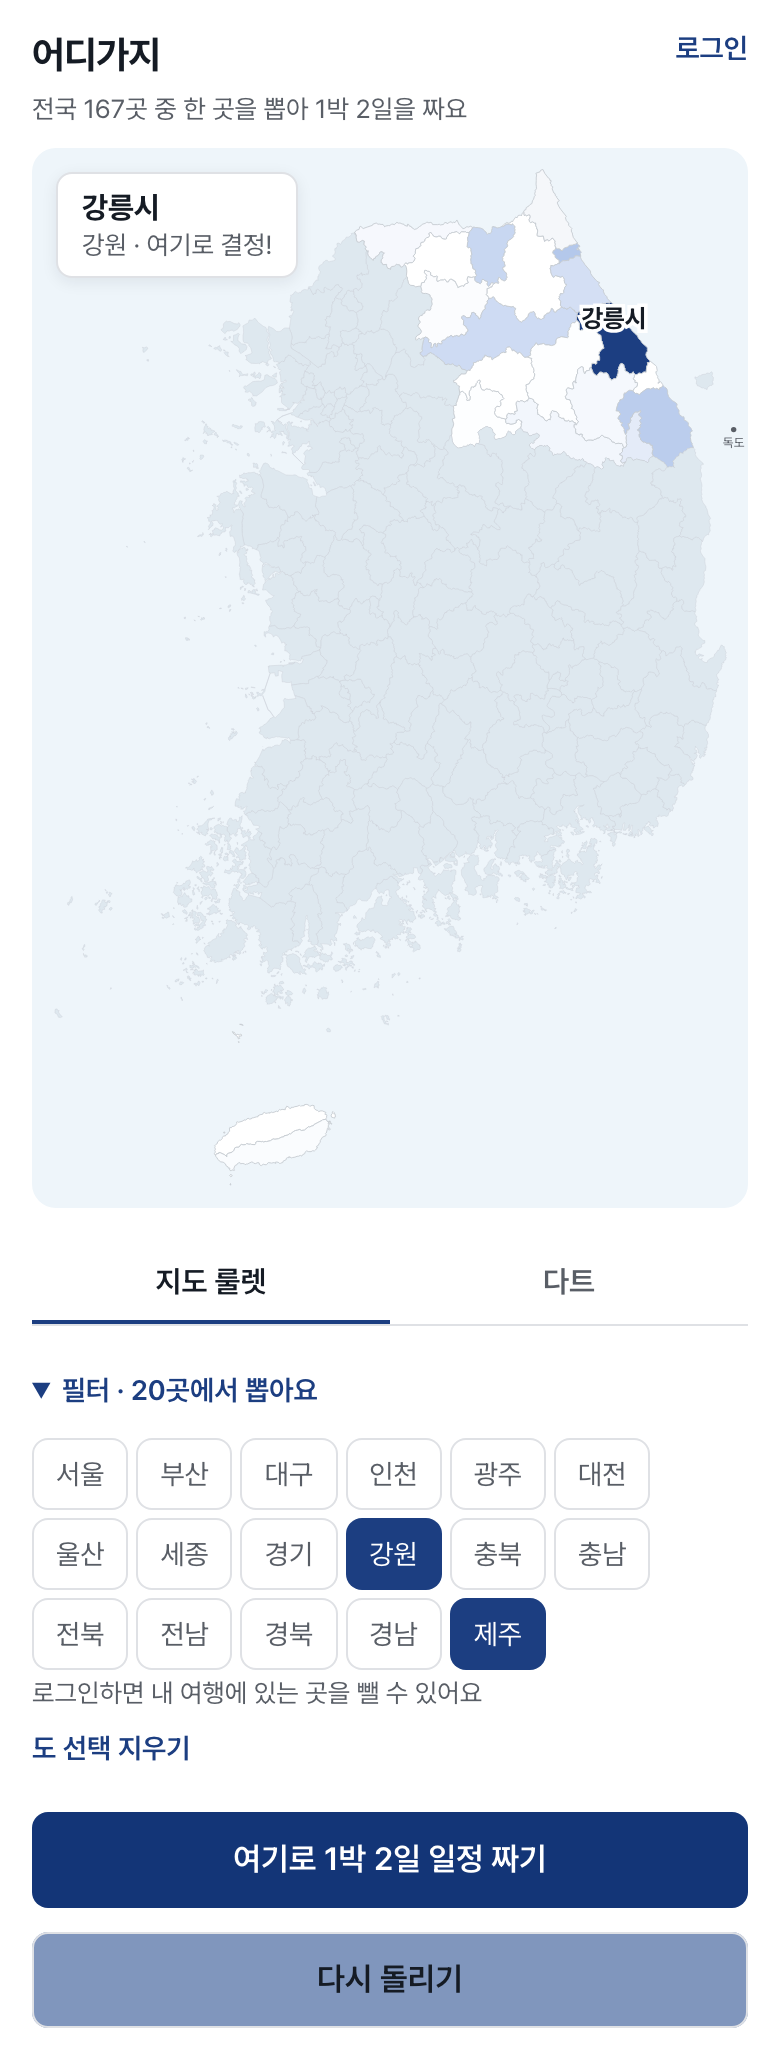
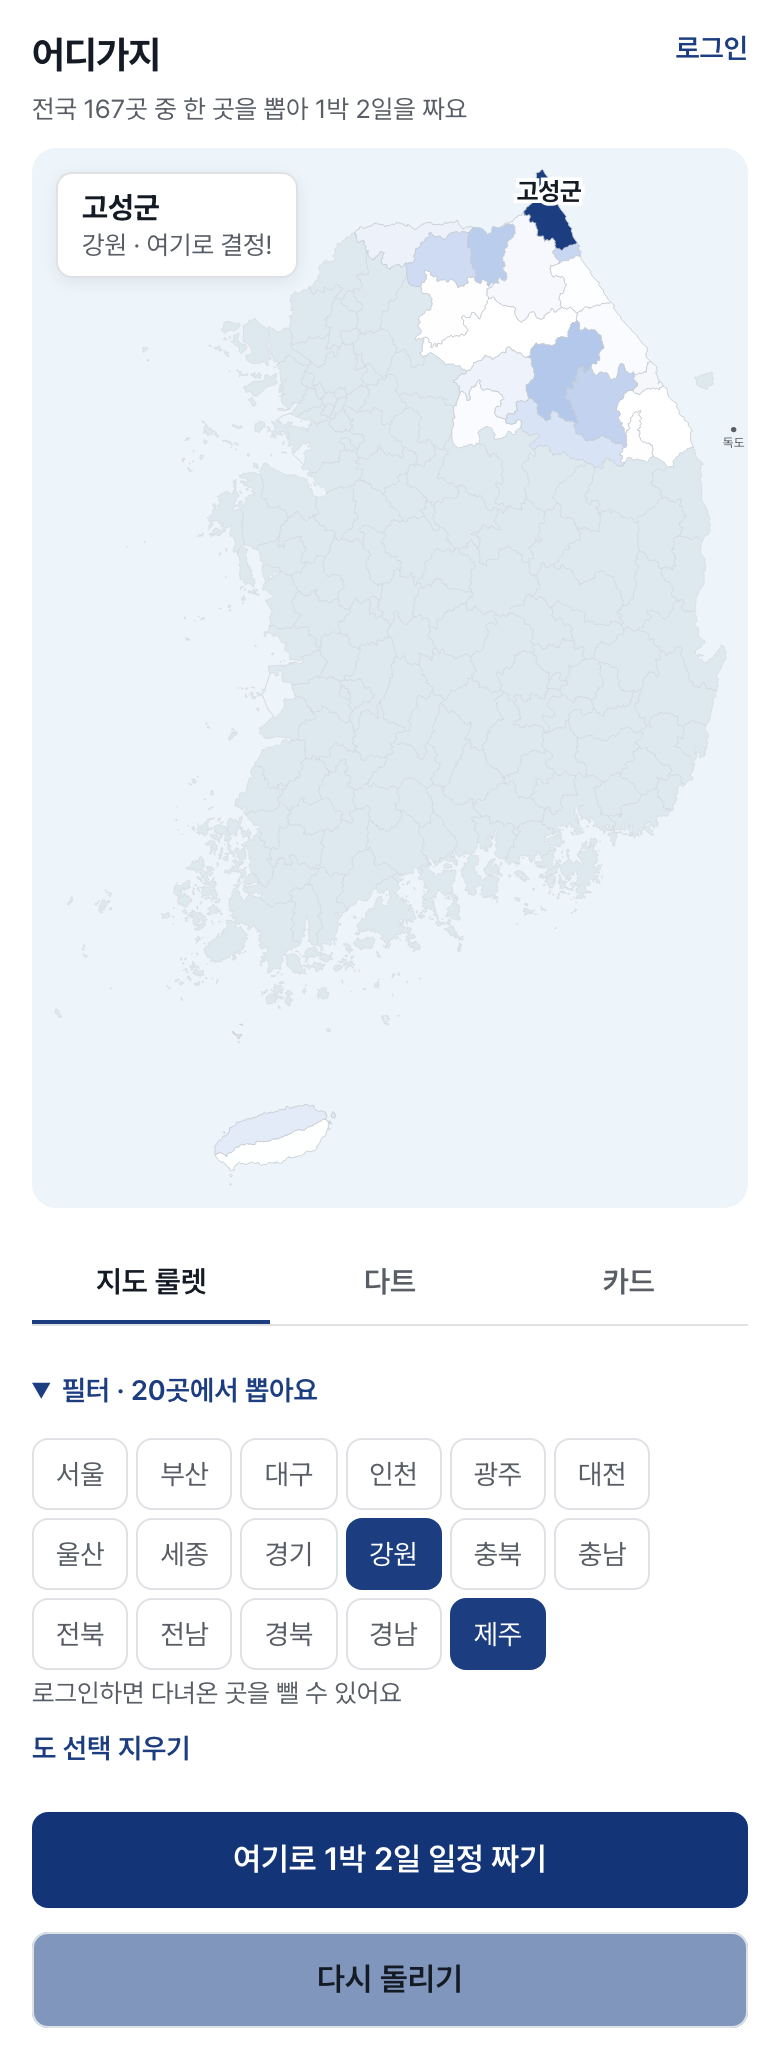
C1: 다녀옴 처리 + 사진 기록 (trips.status·done_on, posts, 비공개 photos 버킷, 1600px webp 재인코딩으로 EXIF 제거, 필터를 다녀온 곳 기준으로)
Claude-Session: https://claude.ai/code/session_01TCXvVVA28C6eN49bkA4J84

diff --git a/src/components/Record.jsx b/src/components/Record.jsx
@@ -1,0 +1,101 @@
+import { useEffect, useState } from "react";
+import { sb } from "../supabase.js";
+
+// C1 다녀옴 + 기록: [다녀왔어요] → 날짜 · 사진 여러 장 · 한 줄 · 공개 여부 → 저장
+// 사진은 올리기 전에 브라우저에서 긴 변 1600px로 줄여 다시 인코딩한다 → EXIF(GPS 등)도 같이 사라진다
+// 저장: Storage photos/{내 id}/{기록 id}/{n}.webp → posts 행. 읽기 권한은 posts RLS를 따른다 (supabase/schema.sql)
+const MAX = 1600, MAX_FILES = 10;
+const today = () => new Date(Date.now() - new Date().getTimezoneOffset() * 6e4).toISOString().slice(0, 10);
+
+async function shrink(file) {
+  const bmp = await createImageBitmap(file, { imageOrientation: "from-image" }); // 세로 사진 회전은 EXIF대로 적용한 뒤 버린다
+  const k = Math.min(1, MAX / Math.max(bmp.width, bmp.height));
+  const c = document.createElement("canvas");
+  c.width = Math.round(bmp.width * k); c.height = Math.round(bmp.height * k);
+  c.getContext("2d").drawImage(bmp, 0, 0, c.width, c.height);
+  bmp.close();
+  const enc = (type, q) => new Promise((ok) => c.toBlob(ok, type, q));
+  const webp = await enc("image/webp", 0.8);
+  return webp?.type === "image/webp" ? webp : enc("image/jpeg", 0.85); // Safari는 webp를 못 만들어 PNG를 준다 → JPEG로
+}
+
+export default function Record({ plan, uid, onChange }) {
+  const [open, setOpen] = useState(false), [busy, setBusy] = useState(""), [err, setErr] = useState("");
+  const [date, setDate] = useState(today()), [files, setFiles] = useState([]), [body, setBody] = useState(""), [pub, setPub] = useState(false);
+  const [posts, setPosts] = useState(null);
+
+  async function load() {
+    const { data } = await sb.from("posts").select().eq("trip_id", plan.id).order("created_at", { ascending: false });
+    const paths = (data ?? []).flatMap((p) => p.photos);
+    const signed = paths.length ? (await sb.storage.from("photos").createSignedUrls(paths, 3600)).data ?? [] : [];
+    const url = Object.fromEntries(signed.map((s) => [s.path, s.signedUrl]));
+    setPosts((data ?? []).map((p) => ({ ...p, urls: p.photos.map((x) => url[x]).filter(Boolean) })));
+  }
+  useEffect(() => { load(); }, [plan.id]);
+
+  async function submit(e) {
+    e.preventDefault();
+    setErr("");
+    const id = crypto.randomUUID(), paths = [];
+    try {
+      if (plan.status !== "done") {
+        setBusy("다녀옴 표시 중…");
+        const { error } = await sb.from("trips").update({ status: "done", done_on: date }).eq("id", plan.id);
+        if (error) throw error;
+        onChange({ status: "done", done_on: date });
+      }
+      if (files.length || body.trim()) {
+        for (const [i, f] of files.entries()) {
+          setBusy(`사진 줄이는 중… ${i + 1}/${files.length}`);
+          const blob = await shrink(f), path = `${uid}/${id}/${i}.${blob.type === "image/webp" ? "webp" : "jpg"}`;
+          setBusy(`사진 올리는 중… ${i + 1}/${files.length}`);
+          const { error } = await sb.storage.from("photos").upload(path, blob, { contentType: blob.type });
+          if (error) throw error;
+          paths.push(path);
+        }
+        const { error } = await sb.from("posts").insert({ id, trip_id: plan.id, prov: plan.prov, place: plan.place, body: body.trim(), photos: paths, is_public: pub });
+        if (error) throw error;
+      }
+      setOpen(false); setFiles([]); setBody(""); setPub(false);
+      await load();
+    } catch (x) {
+      if (paths.length) sb.storage.from("photos").remove(paths); // 반쯤 올라간 사진은 지운다
+      setErr("저장 실패: " + (x.message || x));
+    } finally { setBusy(""); }
+  }
+
+  const done = plan.status === "done";
+  return (
+    <section className="record" aria-label="다녀온 기록">
+      {done && <p className="note">다녀옴 · {plan.done_on}</p>}
+      {!open ? (
+        <button id="done" className="btn" onClick={() => setOpen(true)}>{done ? "+ 기록 남기기" : "다녀왔어요"}</button>
+      ) : (
+        <form id="recordForm" onSubmit={submit}>
+          {!done && <label>다녀온 날<input type="date" name="date" required max={today()} value={date} onChange={(e) => setDate(e.target.value)} /></label>}
+          <label>사진 (최대 {MAX_FILES}장)
+            <input type="file" name="photos" accept="image/*" multiple
+              onChange={(e) => { const f = [...e.target.files]; setErr(f.length > MAX_FILES ? `사진은 ${MAX_FILES}장까지예요` : ""); setFiles(f.slice(0, MAX_FILES)); }} />
+          </label>
+          <label>한 줄<input name="body" maxLength={500} placeholder="어땠어요?" value={body} onChange={(e) => setBody(e.target.value)} /></label>
+          <label className="check"><input type="checkbox" name="public" checked={pub} onChange={(e) => setPub(e.target.checked)} />모두에게 공개 (끄면 같이 간 사람만)</label>
+          <p className="help">사진은 올리기 전에 줄이고, 위치(GPS) 같은 촬영 정보는 지워져요.</p>
+          {err && <p className="note" role="alert">{err}</p>}
+          <button className="btn" disabled={!!busy}>{busy || (done ? "기록 저장" : "다녀옴 저장")}</button>
+          <button type="button" className="btn sub" disabled={!!busy} onClick={() => setOpen(false)}>취소</button>
+        </form>
+      )}
+      {posts?.length > 0 && (
+        <ul className="posts">
+          {posts.map((p) => (
+            <li key={p.id}>
+              {p.urls.length > 0 && <div className="photos">{p.urls.map((u, i) => <img key={i} src={u} alt="" loading="lazy" />)}</div>}
+              {p.body && <p>{p.body}</p>}
+              <small>{p.created_at.slice(0, 10)} · {p.is_public ? "공개" : "비공개"}{p.user_id !== uid ? " · 같이 간 사람" : ""}</small>
+            </li>
+          ))}
+        </ul>
+      )}
+    </section>
+  );
+}

diff --git a/src/pages/Home.jsx b/src/pages/Home.jsx
@@ -27,15 +27,14 @@ export default function Home() {
   const [busy, setBusy] = useState(false);
   const [round, setRound] = useState(0); // 탭을 다시 누르면 다트 새로 (바람 새로)
   const [status, setStatus] = useState(saved.picked ? pickedStatus(saved.picked) : idleStatus);
-  // 필터: 고른 도만(비면 전국), 내 여행에 있는 곳 빼기(로그인 시)
+  // 필터: 고른 도만(비면 전국), 다녀온 곳 빼기(로그인 시)
   const [provs, setProvs] = useState(saved.provs), [skipMine, setSkipMine] = useState(saved.skipMine);
   const uid = useSession()?.user.id, [mine, setMine] = useState([]);
   useEffect(() => { saved = { mode, picked, spun, provs, skipMine }; });
   useEffect(() => {
     if (!uid) return setMine([]);
-    sb.from("trips").select("prov, place").then(({ data }) => setMine(data || [])); // RLS: 내가 멤버인 것만
+    sb.from("trips").select("prov, place").eq("status", "done").then(({ data }) => setMine(data || [])); // RLS: 내가 멤버인 것만
   }, [uid]);
-  // ponytail: "가본 곳" = 내 여행에 있는 곳. C1에서 다녀옴(status) 생기면 그걸로 바꿈
   const out = useMemo(() => new Set(data?.regions.flatMap((r, i) =>
     (provs.length && !provs.includes(r.prov)) || (uid && skipMine && mine.some((t) => t.prov === r.prov && t.place === r.name)) ? [i] : [])), [data, provs, skipMine, mine, uid]);
   const outRef = useRef(out); outRef.current = out;
@@ -96,8 +95,8 @@ export default function Home() {
                 onClick={() => setProvs(provs.includes(p) ? provs.filter((x) => x !== p) : [...provs, p])}>{p}</button>
             ))}
           </div>
-          {uid ? <label className="check"><input type="checkbox" checked={skipMine} disabled={busy} onChange={(e) => setSkipMine(e.target.checked)} /> 내 여행에 있는 곳 빼기</label>
-            : <p className="note">로그인하면 내 여행에 있는 곳을 뺄 수 있어요</p>}
+          {uid ? <label className="check"><input type="checkbox" checked={skipMine} disabled={busy} onChange={(e) => setSkipMine(e.target.checked)} /> 다녀온 곳 빼기</label>
+            : <p className="note">로그인하면 다녀온 곳을 뺄 수 있어요</p>}
           {provs.length > 0 && <button className="add" disabled={busy} onClick={() => setProvs([])}>도 선택 지우기</button>}
         </details>
         <p className="help desk" id="help">{HELP[mode]}</p>

diff --git a/src/pages/Plan.jsx b/src/pages/Plan.jsx
@@ -3,6 +3,7 @@ import { useNavigate, useParams, useSearchParams } from "react-router-dom";
 import { sb, useSession } from "../supabase.js";
 import Layout from "../components/Layout.jsx";
 import KoreaMap from "../components/KoreaMap.jsx";
+import Record from "../components/Record.jsx";
 import { useRegions } from "../regions.js";
 
 // ── 저장·같이 고치기: 로그인한 사용자의 trip (Supabase) ──
@@ -65,7 +66,7 @@ export default function Plan() {
     if (p.error || it.error || !p.data) throw p.error || it.error || new Error("없는 일정");
     const n = Math.max(2, ...it.data.map((i) => i.day + 1));
     s.people = people.data ?? [];
-    s.plan = { id: planId, shared: p.data.shared, prov: p.data.prov, place: p.data.place, title: p.data.title, tip: p.data.tip,
+    s.plan = { id: planId, shared: p.data.shared, prov: p.data.prov, place: p.data.place, title: p.data.title, tip: p.data.tip, status: p.data.status, done_on: p.data.done_on,
       days: Array.from({ length: n }, (_, d) => ({ day: `${d + 1}일차`,
         items: it.data.filter((i) => i.day === d).map(({ id, time, what }) => ({ id, time, what })).sort(byTime) })) };
     s.stale = false;
@@ -238,6 +239,7 @@ export default function Plan() {
         )}
         <button id="save" className="btn" hidden={!plan || !!plan.id} onClick={save}>이 일정 저장</button>
         <button id="invite" className={plan?.id ? "btn" : "btn sub"} hidden={!plan} onClick={invite}>{plan?.shared ? "초대 링크 다시 보내기" : "친구 초대"}</button>
+        {plan?.id && uid && <Record plan={plan} uid={uid} onChange={(v) => { Object.assign(plan, v); savePlan(); render(); }} />}
       </section>
     </Layout>
   );

diff --git a/src/index.css b/src/index.css
@@ -200,3 +200,15 @@ h2.title { margin: 0; }
 .people { display: flex; list-style: none; margin: var(--space-sm) 0 0; padding: 0; }
 .people li + li { margin-left: calc(-1 * var(--space-2xs)); }
 .people img, .people span { display: grid; place-items: center; width: 28px; height: 28px; border-radius: 50%; border: 2px solid var(--color-paper); background: var(--color-accent); color: var(--color-paper); font-size: 13px; font-weight: 600; object-fit: cover; }
+
+/* ── 다녀온 기록 (C1) ── */
+.record { margin-top: var(--space-xl); padding-top: var(--space-md); border-top: 1px solid var(--color-rule); }
+#recordForm label:not(.check) { display: block; margin-top: var(--space-md); font-size: 13px; color: var(--color-ink-2); }
+#recordForm input:not([type="checkbox"]) { display: block; width: 100%; min-height: 48px; margin-top: var(--space-xs); padding: var(--space-xs) var(--space-sm); font: inherit; font-size: 16px; color: var(--color-ink); background: var(--color-paper); border: 1px solid var(--color-rule); border-radius: var(--radius); }
+#recordForm input:focus-visible { outline: none; border-color: var(--color-accent); }
+.posts { list-style: none; margin: var(--space-lg) 0 0; padding: 0; }
+.posts li { padding: var(--space-md) 0; border-bottom: 1px solid var(--color-rule); }
+.posts p { margin: var(--space-xs) 0 0; font-size: 15px; line-height: 1.6; }
+.posts small { display: block; margin-top: var(--space-2xs); font-size: 13px; color: var(--color-ink-2); }
+.photos { display: grid; grid-template-columns: 1fr 1fr; gap: var(--space-2xs); }
+.photos img { width: 100%; aspect-ratio: 1; object-fit: cover; border-radius: var(--radius); background: var(--color-paper-2); }

diff --git a/src/pages/Me.jsx b/src/pages/Me.jsx
@@ -11,7 +11,7 @@ export default function Me() {
   const [trips, setTrips] = useState(null), [err, setErr] = useState("");
   useEffect(() => {
     if (!uid) return;
-    sb.from("trips").select("id, prov, place, title, shared, created_at").order("created_at", { ascending: false }) // RLS: 내가 멤버인 것만
+    sb.from("trips").select("id, prov, place, title, shared, status, done_on, created_at").order("created_at", { ascending: false }) // RLS: 내가 멤버인 것만
       .then(({ data, error }) => { setTrips(data); setErr(error ? "불러오기 실패: " + error.message : ""); });
   }, [uid]);
 
@@ -24,7 +24,7 @@ export default function Me() {
           : !trips ? <p className="help">불러오는 중…</p>
           : !trips.length ? <p className="help">아직 저장한 여행이 없어요. <Link to="/">뽑으러 가기</Link></p>
           : <ul className="trips">{trips.map((t) => (
-              <li key={t.id}><Link to={"/plan/" + t.id}><b>{t.title || t.place}</b><small>{t.prov} {t.place}{t.shared ? " · 같이 고치는 중" : ""}</small></Link></li>
+              <li key={t.id}><Link to={"/plan/" + t.id}><b>{t.title || t.place}</b><small>{t.prov} {t.place}{t.status === "done" ? ` · 다녀옴 ${t.done_on}` : t.shared ? " · 같이 고치는 중" : ""}</small></Link></li>
             ))}</ul>}
       </section>
     </Layout>

diff --git a/docs/ROADMAP.md b/docs/ROADMAP.md
@@ -151,7 +151,7 @@ RLS 원칙: trips/items는 멤버만, posts는 `is_public or 작성자 or 같은
 - [x] **B2. 뽑기 필터**
   - 할 일: 도 선택, "안 가본 곳만"(로그인 시). 필터에서 빠진 지역은 지도에서 흐리게. 룰렛·다트 둘 다 적용
   - 완료 기준: 필터 켜면 빠진 지역은 절대 안 뽑힘 (100번 뽑기 자동 점검)
-  - 결과 (2026-10-11): 탭 아래 접히는 "필터"(도 칩 여러 개 선택, 안 고르면 전국) + 로그인 시 "내 여행에 있는 곳 빼기". 빠진 곳은 지도에서 회색(`--color-zone`). 룰렛은 남은 곳 안에서만 돌고, 다트가 빠진 곳에 꽂히면 "필터에서 뺀 곳이에요" 후 다시. 남은 곳이 0이면 버튼 잠금. **"가본 곳" = 지금은 내 여행(trips)에 있는 곳** — C1에서 다녀옴(status) 생기면 그걸로 바꿈. `filter.mjs` 통과(룰렛 100번 ×2: 강원·제주만 / 강원 − 춘천, 다트로 뺀 곳 맞히기 390·1280), `dart.mjs`·`shots.mjs` 회귀 통과
+  - 결과 (2026-10-11): 탭 아래 접히는 "필터"(도 칩 여러 개 선택, 안 고르면 전국) + 로그인 시 "내 여행에 있는 곳 빼기". 빠진 곳은 지도에서 회색(`--color-zone`). 룰렛은 남은 곳 안에서만 돌고, 다트가 빠진 곳에 꽂히면 "필터에서 뺀 곳이에요" 후 다시. 남은 곳이 0이면 버튼 잠금. "가본 곳" = 내 여행(trips)에 있는 곳 → C1에서 다녀옴(status=done)으로 바꿈. `filter.mjs` 통과(룰렛 100번 ×2: 강원·제주만 / 강원 − 춘천, 다트로 뺀 곳 맞히기 390·1280), `dart.mjs`·`shots.mjs` 회귀 통과
   - 훅: "이미 가본 데 또 나오면 짜증나니까"
 
 - [x] **B3. 카드 3장 뽑기**
@@ -168,9 +168,11 @@ RLS 원칙: trips/items는 멤버만, posts는 `is_public or 작성자 or 같은
 
 ### Phase C — 다녀온 기록
 
-- [ ] **C1. 다녀옴 처리 + 사진 올리기**
+- [x] **C1. 다녀옴 처리 + 사진 올리기**
   - 할 일: trip에 "다녀왔어요" 버튼(날짜 입력) → 기록 작성(사진 여러 장 + 한 줄 + 공개 여부). 브라우저에서 리사이즈 후 Storage 업로드
   - 완료 기준: 사진 5장 올리기 성공, 업로드 파일이 1600px 이하·EXIF 없음, 비공개 기록은 다른 계정에서 안 보임
+  - 결과 (2026-10-11): `trips.status`('planned'|'done')·`done_on`, `posts`(사진 경로 배열 `photos` · 한 줄 · `place_name` · `is_public` 기본 false). 비공개 버킷 `photos/{user}/{post}/{n}.webp`(1MB·webp/jpeg만), 사진 읽기 = 그 사진이 든 기록을 볼 수 있을 때(posts RLS 그대로: 공개 or 작성자 or 같은 trip 멤버). 일정 아래 [다녀왔어요] → 날짜·사진(최대 10장)·한 줄·공개 → 긴 변 1600px로 줄여 webp 재인코딩(EXIF 사라짐, Safari는 jpeg) → 업로드 → 사진 2열 격자. `/me` 목록에 "다녀옴 날짜". B2 필터를 "다녀온 곳 빼기"(status=done)로 교체. `c1.mjs` 통과(3000px+가짜 GPS EXIF 5장 → 1600px·EXIF 없음·7KB대, 비공개는 다른 계정·비로그인이 글·사진 다 못 봄, 공개로 바꾸면 보임), `filter.mjs`·`a3.mjs`·`auth.mjs`·`collab.mjs` 회귀 통과
+  - 알아둘 것: 사진은 1시간짜리 서명 URL + Storage 엣지 캐시라 **공개를 끈 뒤에도 이미 본 사람은 잠깐(최대 1시간) 더 볼 수 있다**. trip을 지워도 Storage 사진은 남음 → D3에서 정리
   - 훅: "여행 사진 올리면 GPS 정보는 지워서 올린다"
 
 - [ ] **C2. 내 지도 색칠 + 미리보기**
